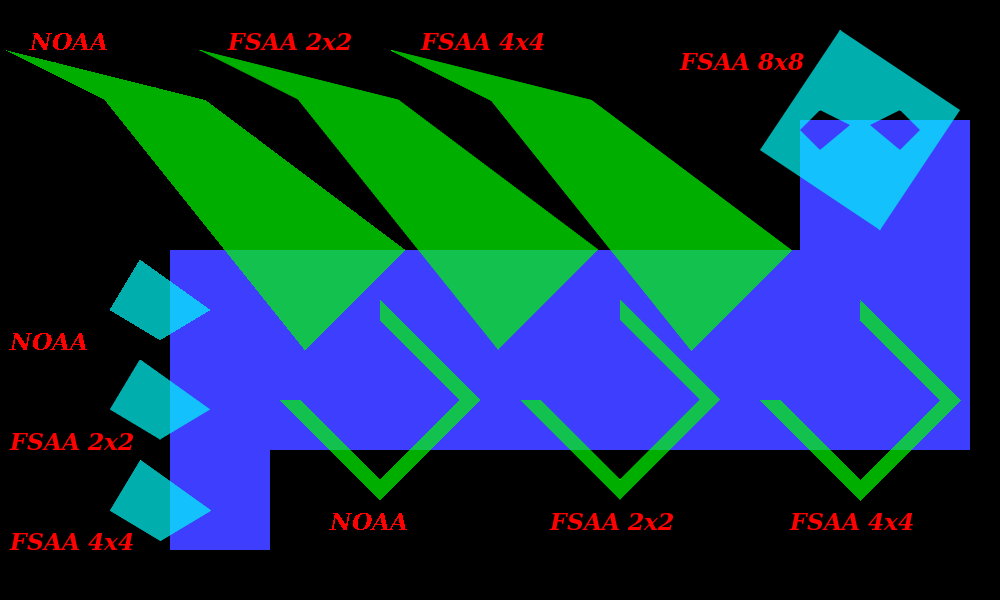
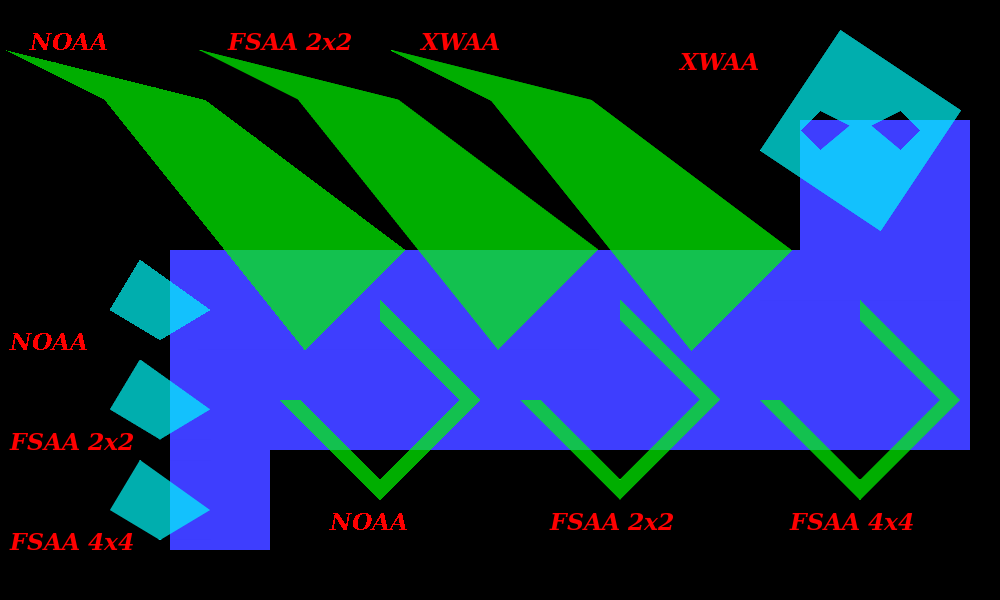
Experiment with XWAA for polygon, again

diff --git a/src/Pt-Gfx/tests/ImagePainterTest2_Benchmark.cpp b/src/Pt-Gfx/tests/ImagePainterTest2_Benchmark.cpp
@@ -117,7 +117,7 @@ static void doBenchmark(CompositionMode cm)
         std::clog << "    Solid-filled    polygon FSAA 4x4 @ ImagePainter2 = " << std::setw(6) << time2
                   << " (" << std::setw(6) << std::setprecision(3) << (time2 / time1) << ")" << std::setprecision(0) << std::endl;
         time2 = benchDrawFillPolygon<ImagePainter2, false>(BENCHMARK_LOOP_COUNT, bmBrushSolid, bmBrushSolid, cm, AntiAliasingMode::Maximum);
-        std::clog << "    Solid-filled    polygon FSAA 8x8 @ ImagePainter2 = " << std::setw(6) << time2
+        std::clog << "    Solid-filled    polygon XWAA     @ ImagePainter2 = " << std::setw(6) << time2
                   << " (" << std::setw(6) << std::setprecision(3) << (time2 / time1) << ")" << std::setprecision(0) << std::endl;
         std::clog << std::endl;
     }
@@ -135,7 +135,7 @@ static void doBenchmark(CompositionMode cm)
         std::clog << "    Gradient-filled polygon FSAA 4x4 @ ImagePainter2 = " << std::setw(6) << time2
                   << " (" << std::setw(6) << std::setprecision(3) << (time2 / time1) << ")" << std::setprecision(0) << std::endl;
         time2 = benchDrawFillPolygon<ImagePainter2, false>(BENCHMARK_LOOP_COUNT, bmBrushGradientH, bmBrushGradientV, cm, AntiAliasingMode::Maximum);
-        std::clog << "    Gradient-filled polygon FSAA 8x8 @ ImagePainter2 = " << std::setw(6) << time2
+        std::clog << "    Gradient-filled polygon XWAA     @ ImagePainter2 = " << std::setw(6) << time2
                   << " (" << std::setw(6) << std::setprecision(3) << (time2 / time1) << ")" << std::setprecision(0) << std::endl;
         std::clog << std::endl;
     }
@@ -153,7 +153,7 @@ static void doBenchmark(CompositionMode cm)
         std::clog << "    Texture-filled  polygon FSAA 4x4 @ ImagePainter2 = " << std::setw(6) << time2
                   << " (" << std::setw(6) << std::setprecision(3) << (time2 / time1) << ")" << std::setprecision(0) << std::endl;
         time2 = benchDrawFillPolygon<ImagePainter2, false>(BENCHMARK_LOOP_COUNT, bmBrushTextureT, bmBrushTextureW, cm, AntiAliasingMode::Maximum);
-        std::clog << "    Texture-filled  polygon FSAA 8x8 @ ImagePainter2 = " << std::setw(6) << time2
+        std::clog << "    Texture-filled  polygon XWAA     @ ImagePainter2 = " << std::setw(6) << time2
                   << " (" << std::setw(6) << std::setprecision(3) << (time2 / time1) << ")" << std::setprecision(0) << std::endl;
         std::clog << std::endl;
     }

diff --git a/src/Pt-Gfx/Rasterizer2_Polygon.cpp b/src/Pt-Gfx/Rasterizer2_Polygon.cpp
@@ -116,13 +116,6 @@ void Rasterizer2::fillPolygon(const Point* points, size_t pointCount)
         );
     }
     else if(_aaMode == AntiAliasingMode::Medium) {
-        rasterPolygonAreaXWAA(
-            clippedPoints.data(), clippedCounts.data(),
-            clippedCounts.size(), clippedPoints.size(),
-            _brush.color(), minX, minY, maxX, maxY
-        );
-        return;
-
         rasterPolygonAreaFSAAGen<4>(
             clippedPoints.data(), clippedCounts.data(),
             clippedCounts.size(), clippedPoints.size(),
@@ -130,11 +123,18 @@ void Rasterizer2::fillPolygon(const Point* points, size_t pointCount)
         );
     }
     else { // _aaMode == AntiAliasingMode::Maximum
+        rasterPolygonAreaXWAA(
+            clippedPoints.data(), clippedCounts.data(),
+            clippedCounts.size(), clippedPoints.size(),
+            _brush.color(), minX, minY, maxX, maxY
+        );
+        /*
         rasterPolygonAreaFSAAGen<8>(
             clippedPoints.data(), clippedCounts.data(),
             clippedCounts.size(), clippedPoints.size(),
             _brush.color(), minX, minY, maxX, maxY
         );
+        */
     }
 }
 

diff --git a/src/Pt-Gfx/tests/ImagePainterTest2_Draw_Filled.cpp b/src/Pt-Gfx/tests/ImagePainterTest2_Draw_Filled.cpp
@@ -53,9 +53,9 @@ static void testDrawFillPolygon(const char* title, Image& image, Painter& painte
         PointF(200 + 391, 100),
         PointF(  0 + 391,  50)
     };
-    if(ip2) ip2->setAntiAliasingMode(AntiAliasingMode::Medium);
+    if(ip2) ip2->setAntiAliasingMode(AntiAliasingMode::Maximum);
     painter.fillPolygon( poly1c, sizeof(poly1b) / sizeof(poly1b[0]) );
-    painter.drawText( PointF(30 + 391, 50), "FSAA 4x4" );
+    painter.drawText( PointF(30 + 391, 50), "XWAA" );
 
 
     painter.setBrush( brush2 );
@@ -165,7 +165,7 @@ static void testDrawFillPolygon(const char* title, Image& image, Painter& painte
     };
     if(ip2) ip2->setAntiAliasingMode(AntiAliasingMode::Maximum);
     painter.fillPolygon( poly4, sizeof(poly4) / sizeof(poly4[0]) );
-    painter.drawText( PointF(680, 70), "FSAA 8x8" );
+    painter.drawText( PointF(680, 70), "XWAA" );
 
 
     sdlPreviewRGB888Buffer(title, image.data(), image.width(), image.height(), !!ip2);

diff --git a/src/Pt-Gfx/tests/ImagePainterTest2_Cairo.cpp b/src/Pt-Gfx/tests/ImagePainterTest2_Cairo.cpp
@@ -209,7 +209,7 @@ static void cairoBenchmark(CompositionMode cm)
         std::clog << "    Solid-filled    polygon FSAA 4x4 @ ImagePainter2 = " << std::setw(6) << time2
                   << " (" << std::setw(6) << std::setprecision(3) << (time2 / time1) << ")" << std::setprecision(0) << std::endl;
         time2 = benchDrawFillPolygon<ImagePainter2, false>(BENCHMARK_LOOP_COUNT, bmBrushSolid, bmBrushSolid, cm, AntiAliasingMode::Maximum);
-        std::clog << "    Solid-filled    polygon FSAA 8x8 @ ImagePainter2 = " << std::setw(6) << time2
+        std::clog << "    Solid-filled    polygon XWAA     @ ImagePainter2 = " << std::setw(6) << time2
                   << " (" << std::setw(6) << std::setprecision(3) << (time2 / time1) << ")" << std::setprecision(0) << std::endl;
         std::clog << std::endl;
         std::clog << "    >>> +Random : Factor => Relative to Self Non-Random (Time) (Factor)" << std::endl << std::endl;

diff --git a/include/Pt/Gfx/AntiAliasingMode.h b/include/Pt/Gfx/AntiAliasingMode.h
@@ -39,10 +39,10 @@ namespace Gfx {
 class AntiAliasingMode {
     public:
          enum Mode {
-             None    = 0, // No anti-aliasing
-             Fastest = 1, // Anti-aliasing using fast SSAA 2x2
-             Medium  = 2, // Anti-aliasing using fast SSAA 4x4
-             Maximum = 3  // Anti-aliasing using fast SSAA 8x8
+             None    = 0, // No anti-aliasing             (speed: very fast ; memory : very low ; visual quality : lowest           )
+             Fastest = 1, // Anti-aliasing using FSAA 2x2 (speed: moderate  ; memory : low      ; visual quality : a bit better     )
+             Medium  = 2, // Anti-aliasing using FSAA 4x4 (speed: slow      ; memory : low      ; visual quality : maybe even better)
+             Maximum = 3  // Anti-aliasing using XWAA     (speed: moderate  ; memory : moderate ; visual quality : best             )
          };
 
         AntiAliasingMode(Mode m = Fastest)
